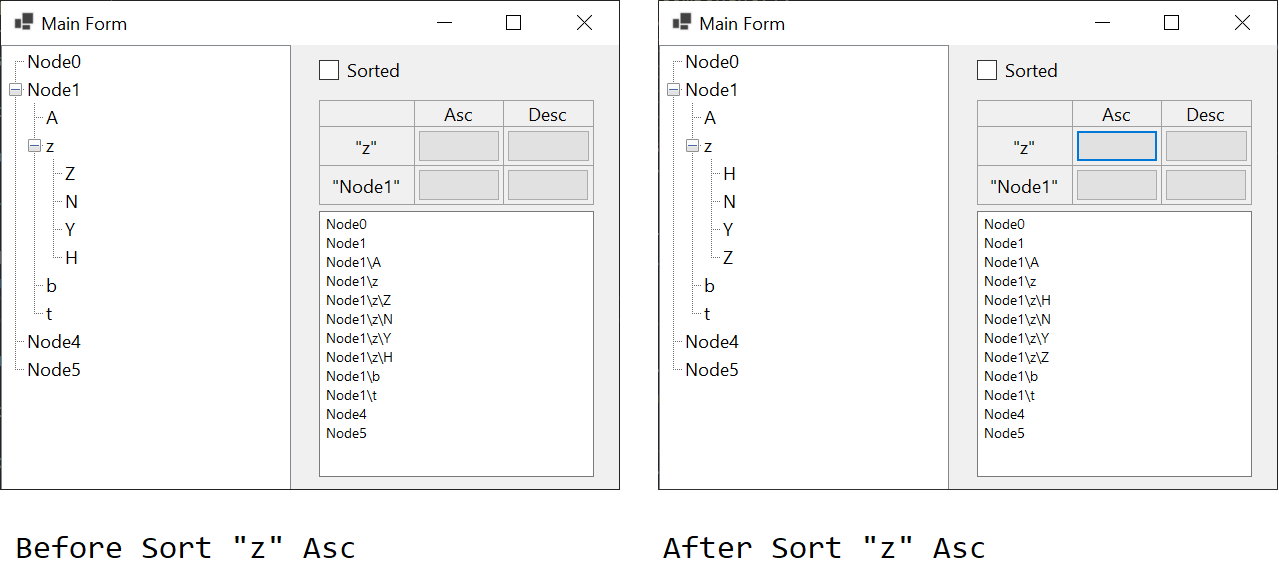
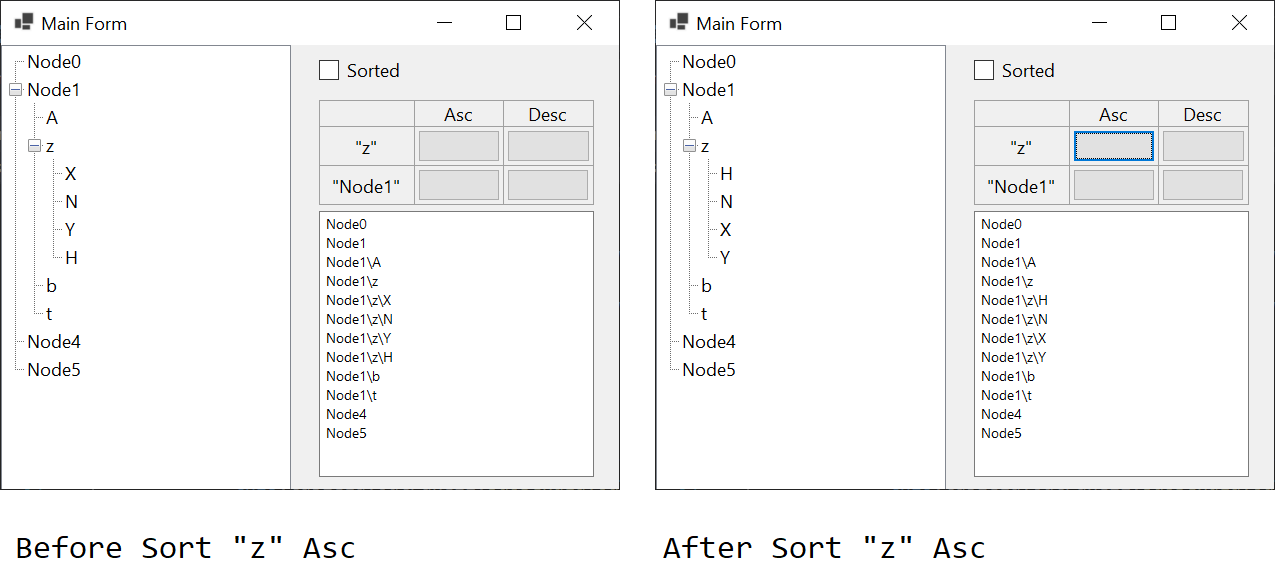
PGP

diff --git a/sort_specific_node/MainForm.Designer.cs b/sort_specific_node/MainForm.Designer.cs
@@ -29,26 +29,30 @@ namespace sort_specific_node
         /// </summary>
         private void InitializeComponent()
         {
-            System.Windows.Forms.TreeNode treeNode1 = new System.Windows.Forms.TreeNode("Node0");
-            System.Windows.Forms.TreeNode treeNode2 = new System.Windows.Forms.TreeNode("A");
-            System.Windows.Forms.TreeNode treeNode3 = new System.Windows.Forms.TreeNode("Z");
-            System.Windows.Forms.TreeNode treeNode4 = new System.Windows.Forms.TreeNode("N");
-            System.Windows.Forms.TreeNode treeNode5 = new System.Windows.Forms.TreeNode("Y");
-            System.Windows.Forms.TreeNode treeNode6 = new System.Windows.Forms.TreeNode("H");
-            System.Windows.Forms.TreeNode treeNode7 = new System.Windows.Forms.TreeNode("z", new System.Windows.Forms.TreeNode[] {
-            treeNode3,
-            treeNode4,
+            System.Windows.Forms.TreeNode treeNode1 = new System.Windows.Forms.TreeNode("Node");
+            System.Windows.Forms.TreeNode treeNode2 = new System.Windows.Forms.TreeNode("etc");
+            System.Windows.Forms.TreeNode treeNode3 = new System.Windows.Forms.TreeNode("Node0", new System.Windows.Forms.TreeNode[] {
+            treeNode1,
+            treeNode2});
+            System.Windows.Forms.TreeNode treeNode4 = new System.Windows.Forms.TreeNode("A");
+            System.Windows.Forms.TreeNode treeNode5 = new System.Windows.Forms.TreeNode("X");
+            System.Windows.Forms.TreeNode treeNode6 = new System.Windows.Forms.TreeNode("N");
+            System.Windows.Forms.TreeNode treeNode7 = new System.Windows.Forms.TreeNode("Y");
+            System.Windows.Forms.TreeNode treeNode8 = new System.Windows.Forms.TreeNode("H");
+            System.Windows.Forms.TreeNode treeNode9 = new System.Windows.Forms.TreeNode("z", new System.Windows.Forms.TreeNode[] {
             treeNode5,
-            treeNode6});
-            System.Windows.Forms.TreeNode treeNode8 = new System.Windows.Forms.TreeNode("b");
-            System.Windows.Forms.TreeNode treeNode9 = new System.Windows.Forms.TreeNode("t");
-            System.Windows.Forms.TreeNode treeNode10 = new System.Windows.Forms.TreeNode("Node1", new System.Windows.Forms.TreeNode[] {
-            treeNode2,
+            treeNode6,
             treeNode7,
-            treeNode8,
-            treeNode9});
-            System.Windows.Forms.TreeNode treeNode11 = new System.Windows.Forms.TreeNode("Node4");
-            System.Windows.Forms.TreeNode treeNode12 = new System.Windows.Forms.TreeNode("Node5");
+            treeNode8});
+            System.Windows.Forms.TreeNode treeNode10 = new System.Windows.Forms.TreeNode("b");
+            System.Windows.Forms.TreeNode treeNode11 = new System.Windows.Forms.TreeNode("t");
+            System.Windows.Forms.TreeNode treeNode12 = new System.Windows.Forms.TreeNode("Node1", new System.Windows.Forms.TreeNode[] {
+            treeNode4,
+            treeNode9,
+            treeNode10,
+            treeNode11});
+            System.Windows.Forms.TreeNode treeNode13 = new System.Windows.Forms.TreeNode("Node4");
+            System.Windows.Forms.TreeNode treeNode14 = new System.Windows.Forms.TreeNode("Node5");
             this.treeView = new System.Windows.Forms.TreeView();
             this.checkBoxSorted = new System.Windows.Forms.CheckBox();
             this.buttonSortNode1 = new System.Windows.Forms.Button();
@@ -72,36 +76,44 @@ namespace sort_specific_node
             this.treeView.Cursor = System.Windows.Forms.Cursors.Default;
             this.treeView.Location = new System.Drawing.Point(0, 0);
             this.treeView.Name = "treeView";
-            treeNode1.Name = "Node0";
-            treeNode1.Text = "Node0";
-            treeNode2.Name = "A";
-            treeNode2.Text = "A";
-            treeNode3.Name = "Z";
-            treeNode3.Text = "Z";
-            treeNode4.Name = "N";
-            treeNode4.Text = "N";
-            treeNode5.Name = "Y";
-            treeNode5.Text = "Y";
-            treeNode6.Name = "H";
-            treeNode6.Text = "H";
-            treeNode7.Name = "z";
-            treeNode7.Text = "z";
-            treeNode8.Name = "b";
-            treeNode8.Text = "b";
-            treeNode9.Name = "t";
-            treeNode9.Text = "t";
+            treeNode1.Name = "Node";
+            treeNode1.Text = "Node";
+            treeNode2.Name = "etc";
+            treeNode2.Text = "etc";
+            treeNode3.Name = "Node0";
+            treeNode3.Text = "Node0";
+            treeNode4.Name = "A";
+            treeNode4.Text = "A";
+            treeNode5.Name = "X";
+            treeNode5.Text = "X";
+            treeNode6.Name = "N";
+            treeNode6.Text = "N";
+            treeNode7.Name = "Y";
+            treeNode7.Text = "Y";
+            treeNode8.Name = "H";
+            treeNode8.Text = "H";
+            treeNode9.BackColor = System.Drawing.Color.Honeydew;
+            treeNode9.ForeColor = System.Drawing.Color.DarkSlateGray;
+            treeNode9.Name = "z";
+            treeNode9.Text = "z";
             treeNode10.Name = "b";
-            treeNode10.Text = "Node1";
-            treeNode11.Name = "Node4";
-            treeNode11.Text = "Node4";
-            treeNode12.Name = "Node5";
-            treeNode12.Text = "Node5";
+            treeNode10.Text = "b";
+            treeNode11.Name = "t";
+            treeNode11.Text = "t";
+            treeNode12.BackColor = System.Drawing.Color.Honeydew;
+            treeNode12.ForeColor = System.Drawing.Color.DarkSlateGray;
+            treeNode12.Name = "b";
+            treeNode12.Text = "Node1";
+            treeNode13.Name = "Node4";
+            treeNode13.Text = "Node4";
+            treeNode14.Name = "Node5";
+            treeNode14.Text = "Node5";
             this.treeView.Nodes.AddRange(new System.Windows.Forms.TreeNode[] {
-            treeNode1,
-            treeNode10,
-            treeNode11,
-            treeNode12});
-            this.treeView.Size = new System.Drawing.Size(290, 452);
+            treeNode3,
+            treeNode12,
+            treeNode13,
+            treeNode14});
+            this.treeView.Size = new System.Drawing.Size(290, 462);
             this.treeView.TabIndex = 0;
             // 
             // checkBoxSorted
@@ -152,13 +164,12 @@ namespace sort_specific_node
             this.textBoxList.Location = new System.Drawing.Point(318, 166);
             this.textBoxList.Multiline = true;
             this.textBoxList.Name = "textBoxList";
-            this.textBoxList.Size = new System.Drawing.Size(275, 266);
+            this.textBoxList.Size = new System.Drawing.Size(275, 276);
             this.textBoxList.TabIndex = 3;
             // 
             // tableLayoutPanel1
             // 
-            this.tableLayoutPanel1.Anchor = ((System.Windows.Forms.AnchorStyles)(((System.Windows.Forms.AnchorStyles.Top | System.Windows.Forms.AnchorStyles.Bottom) 
-            | System.Windows.Forms.AnchorStyles.Right)));
+            this.tableLayoutPanel1.Anchor = ((System.Windows.Forms.AnchorStyles)((System.Windows.Forms.AnchorStyles.Top | System.Windows.Forms.AnchorStyles.Right)));
             this.tableLayoutPanel1.CellBorderStyle = System.Windows.Forms.TableLayoutPanelCellBorderStyle.Single;
             this.tableLayoutPanel1.ColumnCount = 3;
             this.tableLayoutPanel1.ColumnStyles.Add(new System.Windows.Forms.ColumnStyle(System.Windows.Forms.SizeType.Absolute, 94F));
@@ -234,7 +245,7 @@ namespace sort_specific_node
             // 
             this.AutoScaleDimensions = new System.Drawing.SizeF(10F, 25F);
             this.AutoScaleMode = System.Windows.Forms.AutoScaleMode.Font;
-            this.ClientSize = new System.Drawing.Size(618, 444);
+            this.ClientSize = new System.Drawing.Size(618, 454);
             this.Controls.Add(this.tableLayoutPanel1);
             this.Controls.Add(this.textBoxList);
             this.Controls.Add(this.checkBoxSorted);

diff --git a/sort_specific_node/MainForm.cs b/sort_specific_node/MainForm.cs
@@ -16,7 +16,7 @@ namespace sort_specific_node
             treeView.Sorted = false;
             treeView.Invalidated += (sender, e) => checkBoxSorted.Checked = treeView.Sorted;
             treeView.ExpandAll();
-            treeView.Iterate(Index, new IndexArgs());
+            treeView.Iterate(Index, null);
             treeView.Iterate(LogPath, null);
             treeView.BeforeSelect += (sender, e) => e.Cancel = !_isTreeInitialized;
             Task.Delay(10).GetAwaiter().OnCompleted(() => _isTreeInitialized = true);
@@ -39,6 +39,7 @@ namespace sort_specific_node
         }
         bool SortIfNodeMatch(TreeNode node, SortIfNodeMatchArgs args)
         {
+            checkBoxSorted.Checked = false;
             if((args.Predicate == null) || (args.Predicate(node)))
             {
                 var list = node.Nodes.Cast<TreeNode>().ToList();
@@ -60,18 +61,10 @@ namespace sort_specific_node
             public Predicate<TreeNode> Predicate { get; set; }
             public Func<TreeNode, TreeNode, int> Sorter { get; set; }
         }
-        bool Index(TreeNode node, IndexArgs args)
+        bool Index(TreeNode node, object unused)
         {
-            node.Tag = args.Index++;
+            node.Tag = node.Index;
             return false;
-        }
-        // Overloaded so that the arg can be 'object'
-        bool Index(TreeNode node, object args) =>
-            Index(node, (IndexArgs)args);
-
-        class IndexArgs
-        {
-            public int Index { get; set; }
         }
 
         private void checkBoxSorted_CheckedChanged(object sender, EventArgs e)
@@ -108,7 +101,7 @@ namespace sort_specific_node
                {
                    Predicate = (node) => node.Text == "z",
 
-                   // This will sort in the order of H N Y Z
+                   // This will sort in the order of A-Z
                    Sorter = (a, b) => a.Text.CompareTo(b.Text),
                };
             treeView.Iterate(SortIfNodeMatch, args);
@@ -122,6 +115,7 @@ namespace sort_specific_node
                {
                    Predicate = (node) => node.Text == "z",
 
+                   // This will sort in the order of Z-A
                    Sorter = (a, b) => b.Text.CompareTo(a.Text),
                };
             treeView.Iterate(SortIfNodeMatch, args);
@@ -135,7 +129,7 @@ namespace sort_specific_node
                {
                     Predicate = (node) => node.Text == "Node1",
 
-                    // This will sort in the order of H N Y Z
+                    // This will sort in the order of A-Z
                     Sorter = (a, b) => a.Text.CompareTo(b.Text),
                };
             treeView.Iterate(SortIfNodeMatch, args);
@@ -149,7 +143,7 @@ namespace sort_specific_node
                {
                    Predicate = (node) => node.Text == "Node1",
 
-                   // This will sort in the order of H N Y Z
+                   // This will sort in the order of Z-A
                    Sorter = (a, b) => b.Text.CompareTo(a.Text),
                };
             treeView.Iterate(SortIfNodeMatch, args);
